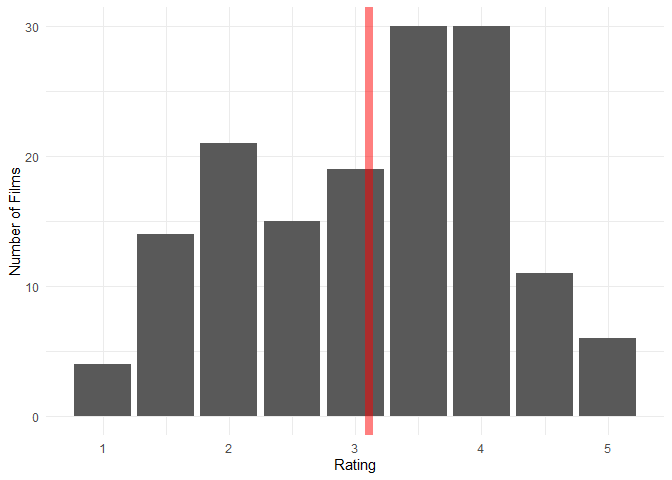
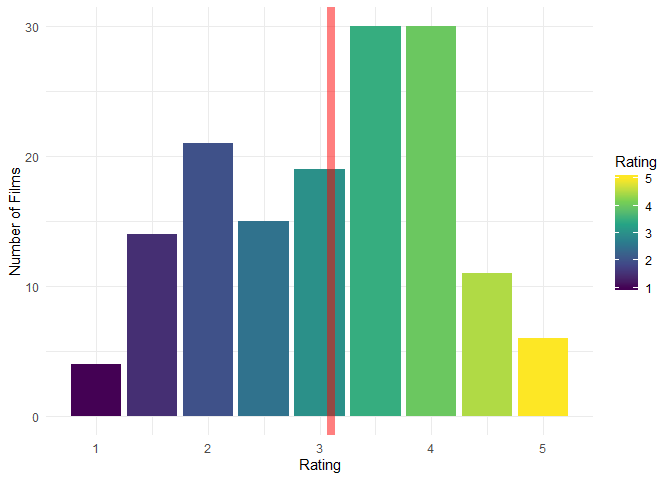
updated year-in-review

diff --git a/reports/2019_year-in-review.md b/reports/2019_year-in-review.md
@@ -27,7 +27,7 @@ diary %>%
   geom_point(aes(x = date, y = running_total)) +
   labs(x = "Date Watched",
        y = "Cumulative Total",
-       title = "That's a lot of movies") +
+       title = "That's a lot of movies!") +
   theme_minimal() +
   scale_x_date()
 ```
@@ -47,11 +47,12 @@ ratings %>%
   count(Rating) %>%
   mutate(mean = weighted.mean(Rating, w = n)) %>%
   ggplot() +
-  geom_bar(aes(x = Rating, y = n), stat = "identity") + 
+  geom_bar(aes(x = Rating, y = n, fill = Rating), stat = "identity") + 
   geom_vline(aes(xintercept = mean), color = "red", alpha = 0.5, size = 3) +
   theme_minimal() +
   labs(x = "Rating",
-       y = "Number of Films")
+       y = "Number of Films") +
+  scale_fill_viridis_c(limits = c(1, 5))
 ```
 
 ![](2019_year-in-review_files/figure-gfm/ratings-1.png)<!-- -->
@@ -85,10 +86,11 @@ ratings %>%
   filter(!is_split) %>%
   select(Rating, total_n) %>%
   ggplot() +
-  geom_bar(aes(x = Rating, y = total_n), stat = "identity") + 
+  geom_bar(aes(x = Rating, y = total_n, fill = Rating), stat = "identity") + 
   theme_minimal() +
   labs(x = "Rating",
-       y = "Number of Films")
+       y = "Number of Films") +
+  scale_fill_viridis_c(limits = c(1, 5))
 ```
 
 ![](2019_year-in-review_files/figure-gfm/simplified-ratings-1.png)<!-- -->
@@ -101,59 +103,80 @@ Now let’s see the best movies I saw this year, and the best movies from
 this year.
 
 ``` r
-ratings <- read.csv(file.path(here::here(), "data", "ratings.csv"))
+ratings <- read.csv(file.path(here::here(), "data", "ratings.csv"), fileEncoding = "UTF-8")
 
 ratings %>% 
-  mutate(year = lubridate::year(Date)) %>% 
-  filter(year == 2019) %>%
-  arrange(-Rating) %>%
-  head(10) %>%
-  mutate(place = row_number()) %>%
+  mutate(year_watched = lubridate::year(Date)) %>% 
+  filter(year_watched == 2019) %>%
+  mutate(Rank = rank(-Rating, ties.method = "random")) %>% 
+  filter(Rank <= 10) %>% 
   ggplot() +
-  geom_bar(aes(x = place, y = Rating, fill = Rating), stat = "identity") +
-  geom_text(aes(x = place, y = 0, label = Name), hjust = 0, color = "white") +
+  geom_bar(aes(x = Rank, y = Rating, fill = Rating), stat = "identity") +
+  geom_text(aes(x = Rank, y = 0, label = Name), hjust = 0) +
   theme_minimal() +
   coord_flip() +
-  scale_x_reverse()
+  scale_x_reverse() +
+  scale_fill_viridis_c(limits = c(1, 5))
 ```
 
 ![](2019_year-in-review_files/figure-gfm/top-movies-1.png)<!-- -->
 
+Wow, not a lot of movies made in 2019 on that list. What if we only look
+at those?
+
 ``` r
-ratings <- read.csv(file.path(here::here(), "data", "ratings.csv"))
+ratings <- read.csv(file.path(here::here(), "data", "ratings.csv"), fileEncoding = "UTF-8")
 
 ratings %>% 
-  mutate(year = lubridate::year(Date)) %>% 
-  filter(year == 2019, Year == 2019) %>%
-  arrange(-Rating) %>%
-  head(10) %>%
-  mutate(place = row_number()) %>%
+  filter(Year == 2019) %>%
+  mutate(Rank = rank(-Rating, ties.method = "random")) %>% 
+  filter(Rank <= 10) %>% 
   ggplot() +
-  geom_bar(aes(x = place, y = Rating, fill = Rating), stat = "identity") +
-  geom_text(aes(x = place, y = 0, label = Name), hjust = 0, color = "white") +
+  geom_bar(aes(x = Rank, y = Rating, fill = Rating), stat = "identity") +
+  geom_text(aes(x = Rank, y = 0, label = Name), hjust = 0) +
   theme_minimal() +
   coord_flip() +
-  scale_x_reverse()
+  scale_x_reverse() +
+  scale_fill_viridis_c(limits = c(1, 5))
 ```
 
 ![](2019_year-in-review_files/figure-gfm/top-movies-2019-1.png)<!-- -->
-But why doesn’t the `ratings.csv` file go back as far as the `diary.csv`
-file?
 
-```` 
-                  ```r
-                                      ratings %>% 
-                  count(Date) %>% 
-                  ggplot() +
-                  geom_bar(aes(x = lubridate::as_date(Date), y = n), stat = "identity") +
-                  labs(title = "HMMMM",
-                       x = "Date Watched",
-                       y = "Number of Films Watched") +
-                  scale_x_date(labels = scales::date_format("%B, %Y")) +
-                  theme_minimal()
-                  ```
-                  
-                  ![](2019_year-in-review_files/figure-gfm/ratings-error-1.png)<!-- -->
-                
-                HMMM Indeed...
-````
+That feels like a decent list, to me.
+
+## Reviews
+
+I don’t think I did a great job recording reviews- how’d I do?
+
+``` r
+reviews <- read_csv(file.path(here::here(), "data", "reviews.csv"))
+```
+
+    ## Parsed with column specification:
+    ## cols(
+    ##   Date = col_date(format = ""),
+    ##   Name = col_character(),
+    ##   Year = col_double(),
+    ##   `Letterboxd URI` = col_character(),
+    ##   Rating = col_double(),
+    ##   Rewatch = col_character(),
+    ##   Review = col_character(),
+    ##   Tags = col_character(),
+    ##   `Watched Date` = col_date(format = "")
+    ## )
+
+``` r
+reviews %>% 
+  filter(lubridate::year(`Watched Date`) == 2019) %>%
+  nrow()
+```
+
+    ## [1] 42
+
+Not bad…
+
+## 2020 Goals
+
+  - [ ] Watch 150 Movies
+  - [ ] Write 75 Reviews
+  - [ ] Get closer to a normal distribution in my ratings
